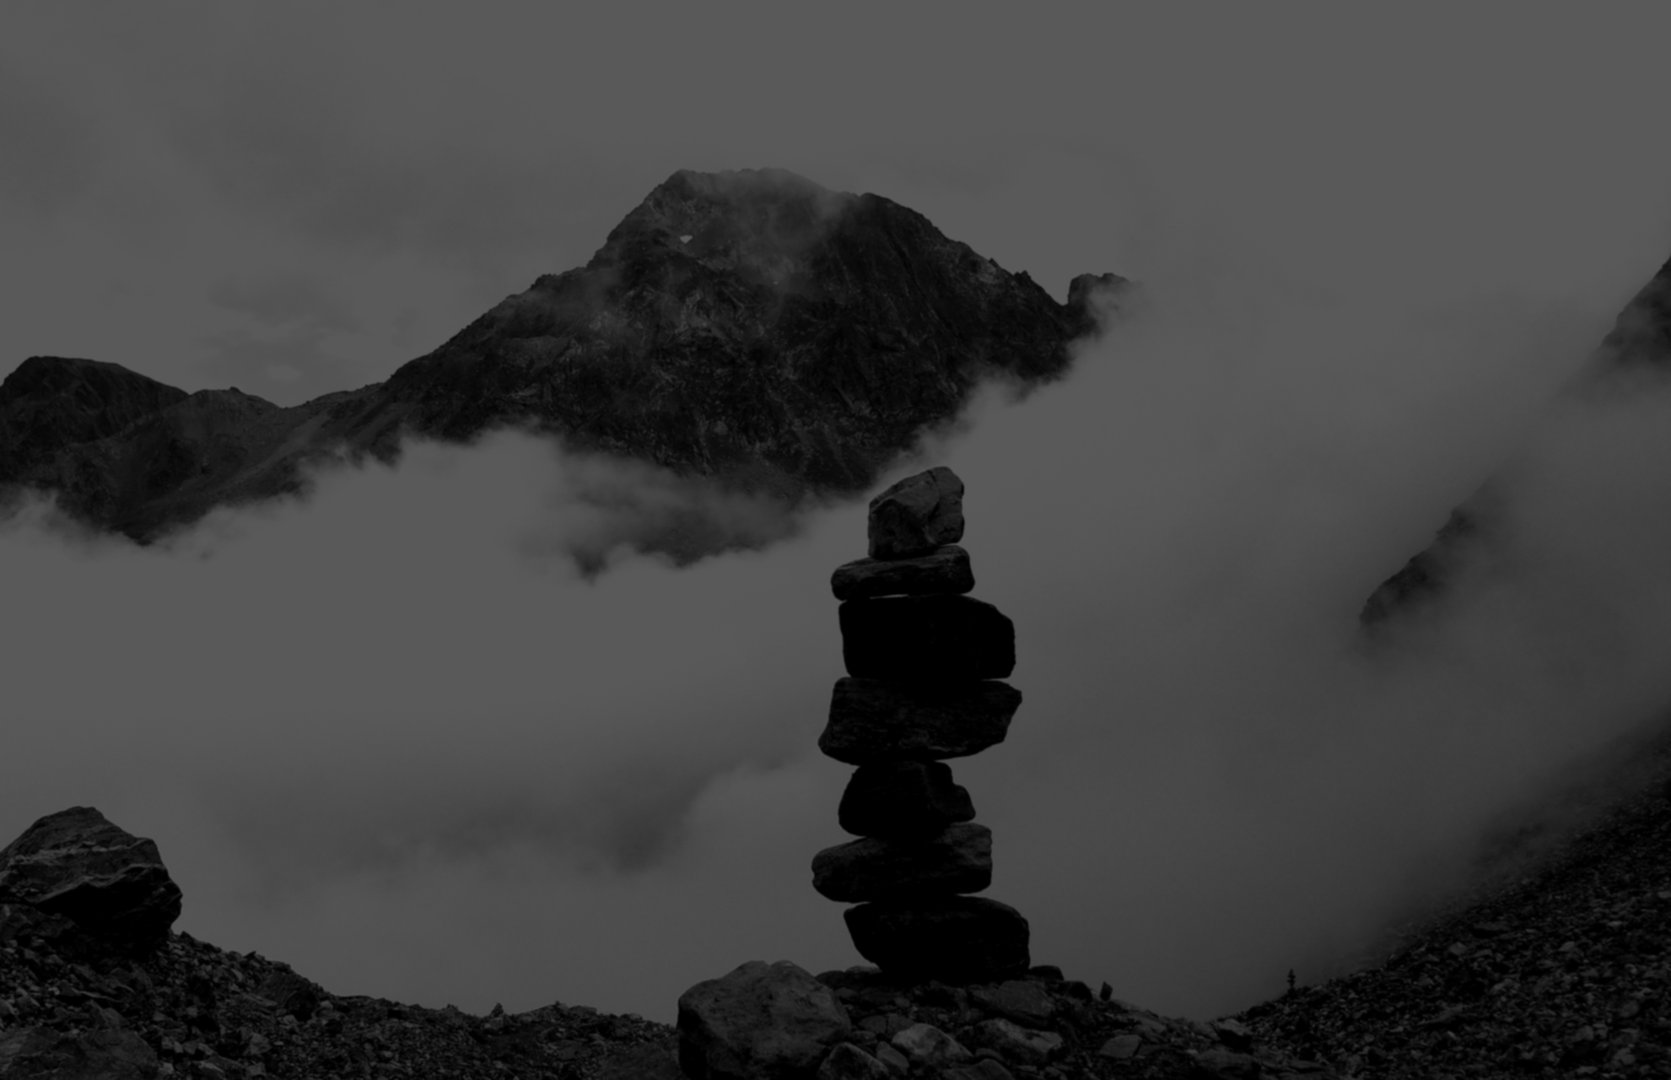
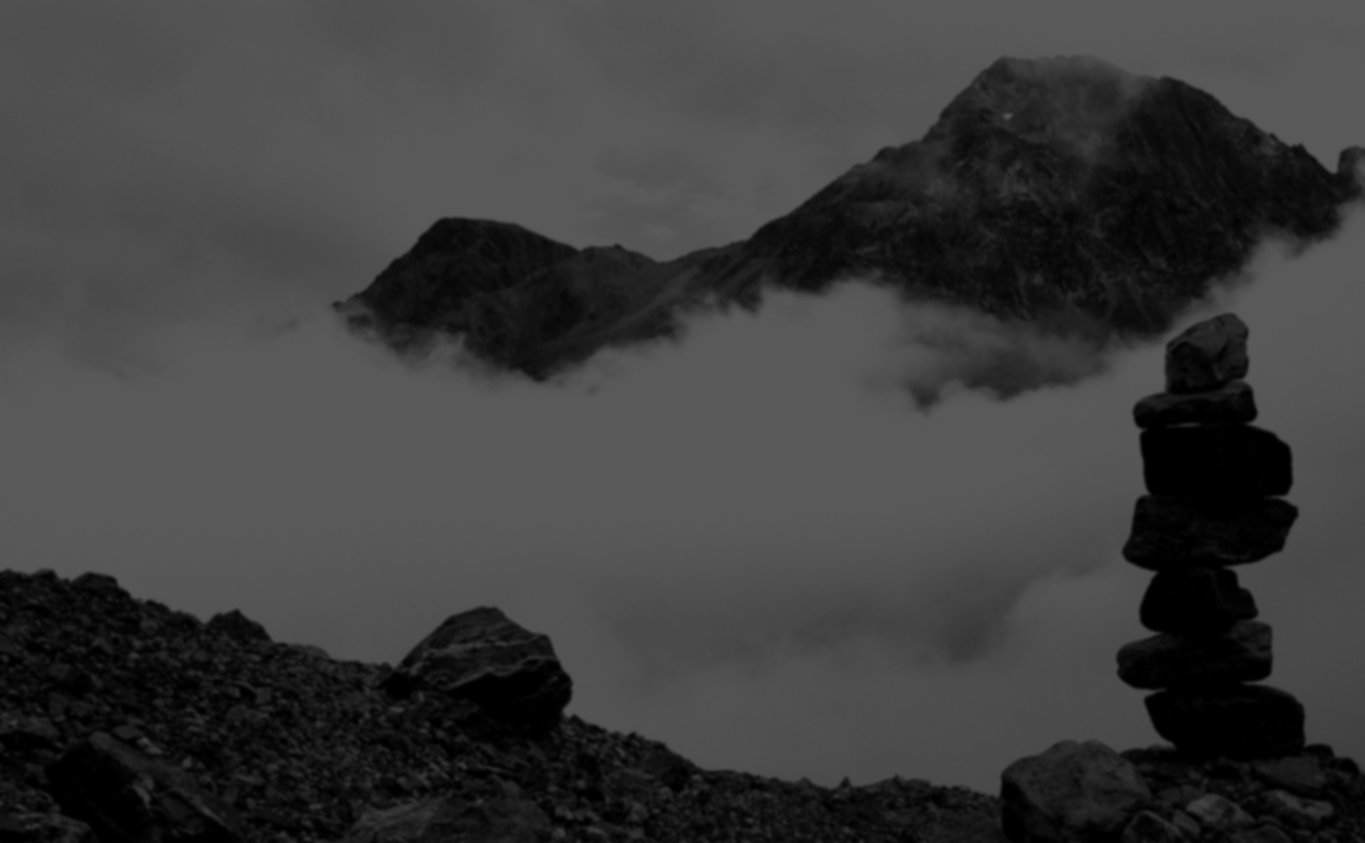
0959

diff --git a/index.html b/index.html
@@ -720,7 +720,7 @@
                     <div class="cover-text">
                         <h1>Carnet de sculptures</h1>
                         <p>Guillaume Varet</p>
-                        <p class="cover-version">V2.06</p>
+                        <p class="cover-version">V2.07</p>
                     </div>
                 </div>
 